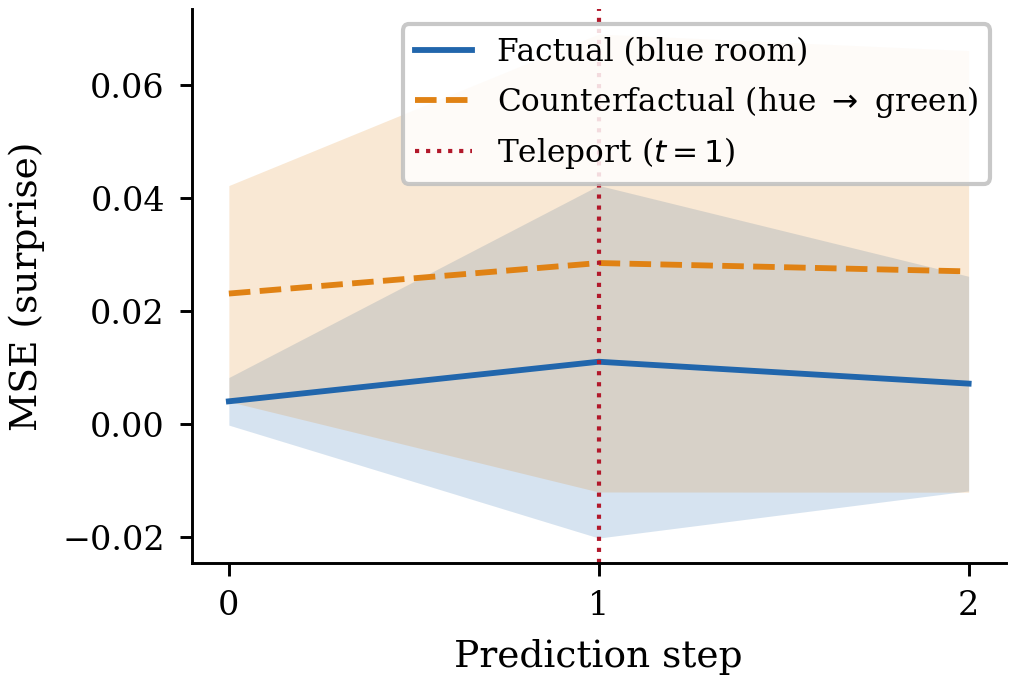
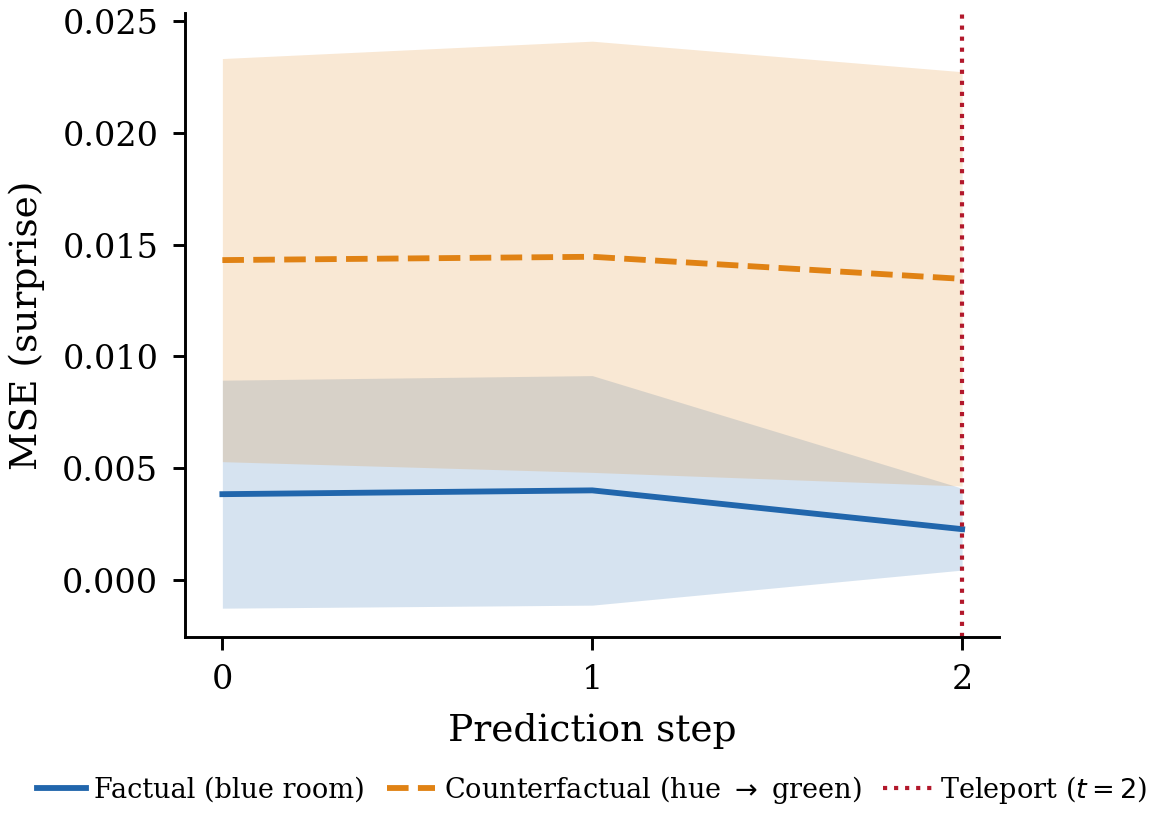
fix: move surprise plot legend below axes for consistency
- legend placed outside axes (bbox_to_anchor bottom-centre, ncol=3,
  frameless 6.5pt) — was overlapping orange confidence band upper-right
- figure height 2.4→2.7" to accommodate the extra row below
- Updated reports/surprise_over_time.{pdf,png}

diff --git a/research/glitched_hue_experiment.py b/research/glitched_hue_experiment.py
@@ -607,7 +607,7 @@ def _plot_surprise_over_time(aap_results, out_dir, suffix=""):
     xs = np.arange(n_steps)
     t_tp = int(np.median([r["teleport_step"] for r in aap_results]))
 
-    fig, ax = plt.subplots(figsize=(3.5, 2.4))
+    fig, ax = plt.subplots(figsize=(3.5, 2.7))
 
     ax.plot(xs, mean_f,  color=_C["blue"],   lw=1.4,
             label="Factual (blue room)")
@@ -625,7 +625,11 @@ def _plot_surprise_over_time(aap_results, out_dir, suffix=""):
     ax.set_xlabel("Prediction step")
     ax.set_ylabel("MSE (surprise)")
     ax.set_xticks(xs)
-    ax.legend(loc="upper right")
+    ax.legend(
+        loc="upper center", bbox_to_anchor=(0.5, -0.18),
+        ncol=3, fontsize=6.5,
+        frameon=False, handletextpad=0.3, columnspacing=0.8,
+    )
     _despine(ax)
 
     _save_fig(fig, out_dir, f"surprise_over_time{suffix}")
